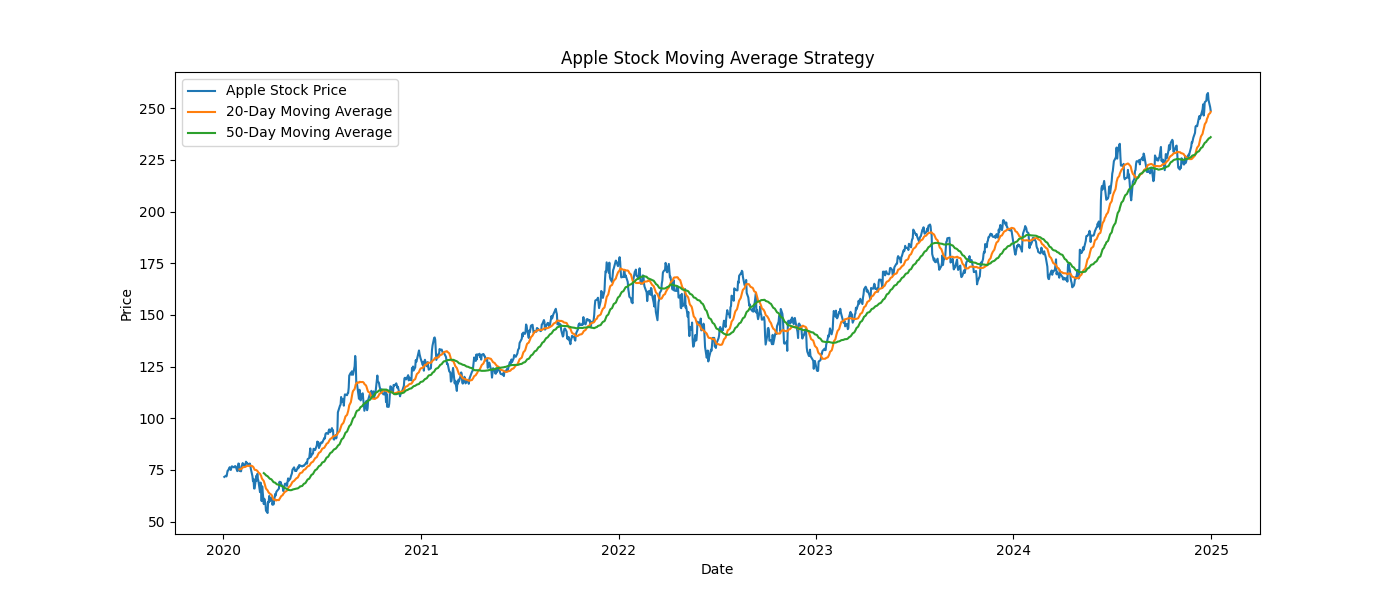
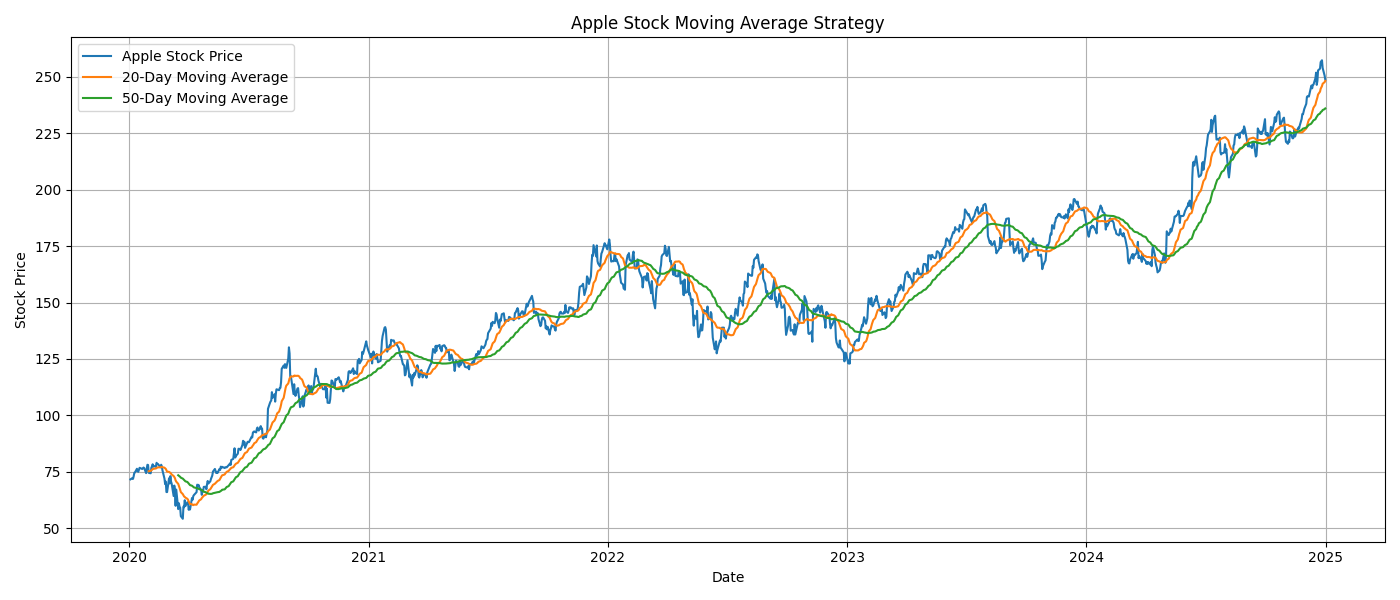
Improved Week 4 analytics and visualizations

diff --git a/alphapulse/week4_advanced_analytics/forecasting/moving_average_strategy.py b/alphapulse/week4_advanced_analytics/forecasting/moving_average_strategy.py
@@ -2,28 +2,39 @@ import pandas as pd
 import matplotlib.pyplot as plt
 
 # Load dataset
-df = pd.read_csv('alphapulse/week3_dashboard/data_preparation/final_dataset.csv')
+df = pd.read_csv(
+    'alphapulse/week3_dashboard/data_preparation/final_dataset.csv'
+)
 
 # Convert Date column
 df['Date'] = pd.to_datetime(df['Date'])
 
 # Calculate Moving Averages
-df['AAPL_20_Day_MA'] = df['AAPL_Price'].rolling(window=20).mean()
-df['AAPL_50_Day_MA'] = df['AAPL_Price'].rolling(window=50).mean()
+df['AAPL_20_Day_MA'] = df['AAPL_Price'].rolling(20).mean()
+df['AAPL_50_Day_MA'] = df['AAPL_Price'].rolling(50).mean()
 
 # Plot
-plt.figure(figsize=(14,6))
+plt.figure(figsize=(14, 6))
 
-plt.plot(df['Date'], df['AAPL_Price'], label='Apple Stock Price')
-plt.plot(df['Date'], df['AAPL_20_Day_MA'], label='20-Day Moving Average')
-plt.plot(df['Date'], df['AAPL_50_Day_MA'], label='50-Day Moving Average')
+plt.plot(df['Date'], df['AAPL_Price'],
+         label='Apple Stock Price')
+
+plt.plot(df['Date'], df['AAPL_20_Day_MA'],
+         label='20-Day Moving Average')
+
+plt.plot(df['Date'], df['AAPL_50_Day_MA'],
+         label='50-Day Moving Average')
 
 plt.title('Apple Stock Moving Average Strategy')
 plt.xlabel('Date')
-plt.ylabel('Price')
+plt.ylabel('Stock Price')
 plt.legend()
+plt.grid(True)
+plt.tight_layout()
 
-# Save output
-plt.savefig('alphapulse/week4_advanced_analytics/outputs/moving_average_strategy.png')
+# Save chart
+plt.savefig(
+    'alphapulse/week4_advanced_analytics/outputs/moving_average_strategy.png'
+)
 
 print("✅ Moving Average Strategy Completed!")

diff --git a/alphapulse/week4_advanced_analytics/forecasting/stock_forecasting.py b/alphapulse/week4_advanced_analytics/forecasting/stock_forecasting.py
@@ -2,26 +2,41 @@ import pandas as pd
 import matplotlib.pyplot as plt
 
 # Load dataset
-df = pd.read_csv('alphapulse/week3_dashboard/data_preparation/final_dataset.csv')
+df = pd.read_csv(
+    'alphapulse/week3_dashboard/data_preparation/final_dataset.csv'
+)
 
 # Convert Date column
 df['Date'] = pd.to_datetime(df['Date'])
 
-# Simple Forecast using Rolling Mean
-df['Forecast'] = df['AAPL_Price'].rolling(window=30).mean()
+# Rolling Average Forecast
+df['Forecast'] = df['AAPL_Price'].rolling(30).mean()
 
 # Plot
-plt.figure(figsize=(14,6))
+plt.figure(figsize=(14, 6))
 
-plt.plot(df['Date'], df['AAPL_Price'], label='Actual Price')
-plt.plot(df['Date'], df['Forecast'], label='Forecasted Trend')
+plt.plot(
+    df['Date'],
+    df['AAPL_Price'],
+    label='Actual Price'
+)
 
-plt.title('Apple Stock Forecast')
+plt.plot(
+    df['Date'],
+    df['Forecast'],
+    label='30-Day Rolling Forecast'
+)
+
+plt.title('Apple Stock Trend Forecast')
 plt.xlabel('Date')
-plt.ylabel('Price')
+plt.ylabel('Stock Price')
 plt.legend()
+plt.grid(True)
+plt.tight_layout()
 
 # Save chart
-plt.savefig('alphapulse/week4_advanced_analytics/outputs/stock_forecast.png')
+plt.savefig(
+    'alphapulse/week4_advanced_analytics/outputs/stock_forecast.png'
+)
 
 print("✅ Stock Forecasting Completed!")
